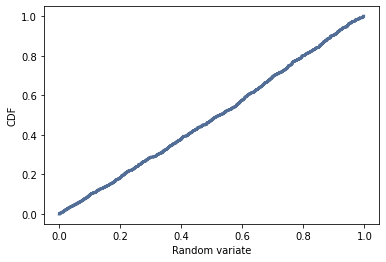
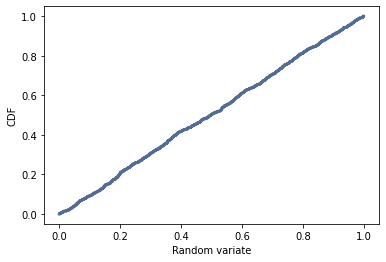
solved Q3

diff --git a/lessons/statistics/4-2-random_dist.md b/lessons/statistics/4-2-random_dist.md
@@ -1,21 +1,20 @@
 [Think Stats Chapter 4 Exercise 2](http://greenteapress.com/thinkstats2/html/thinkstats2005.html#toc41) (a random distribution)
 
 **Exercise 2**  
-*The numbers generated by random.random are supposed to be uniform between 0 and 1; that is, every value in the range should have the same probability.*
+*The numbers generated by random.random are supposed to be uniform between 0 and 1; that is, every value in the range should have the same probability.*  
+*Generate 1000 numbers from random.random. Plot their PMF and CDF. Is the distribution uniform?*
 
-> Generate 1000 numbers from random.random.*
-
+##### 1. Generate 1000 numbers from random.random
 ```python
 >>> nums = np.random.random(1000)
 >>> nums[:10]
-array([0.35490748, 0.23560738, 0.41897198, 0.5684907 , 0.62594531,
-       0.24709504, 0.0886374 , 0.93151124, 0.87029059, 0.71507647])
+array([0.1889021 , 0.95947588, 0.87361158, 0.66866038, 0.58156521,
+       0.44315894, 0.65223507, 0.57603283, 0.40499186, 0.71748323])
 ```
 
 Every value of the array ```nums``` is a random number between 0 and 1.
 
-> Plot their PMF and CDF. Is the distribution uniform?
-
+##### 2. Plot the PMF (Probability Mass Distribution)
 ```python
 >>> pmf = thinkstats2.Pmf(nums)
 >>> thinkplot.Pmf(pmf, linewidth=0.1)
@@ -25,10 +24,12 @@ Every value of the array ```nums``` is a random number between 0 and 1.
 ![!](pmf_nums.png)
 
 Let's take a look at the ```x-axis``` *Random variate*:
-- each value is a number between 0 and 1,
-- **each value has a probability of ```1 / 1000``` or ```0.001```**
+- each value is a number in ```[0, 1]```,
+- **each value has the exact same probability as every other value in the dataset, ```1 / 1000``` or ```0.001```**  
 
-If we plot the **Cumulative distribution function**, this is the sum of each probability in the dataset:
+The PMF is constant over the possible values of ```x```.
+
+##### 3. Plot the CDF (Cumulative Distribution Function)
 
 ```python
 >>> cdf = thinkstats2.Cdf(nums)
@@ -38,4 +39,9 @@ If we plot the **Cumulative distribution function**, this is the sum of each pro
 
 ![!](cdf_nums.png)
 
-The sum of each one of the probabilities (```0.001```) is ```1```.
+It shows that for any value:
+- ```F(x) = 0``` for ```x < 0``` 
+- ```F(x) = x``` for ```0 <= x <= 1```
+- ```F(x) = 1``` for ```x > 1```
+
+The ```nums``` dataset checks the main characteristics of an uniform distribution U(0, 1).
